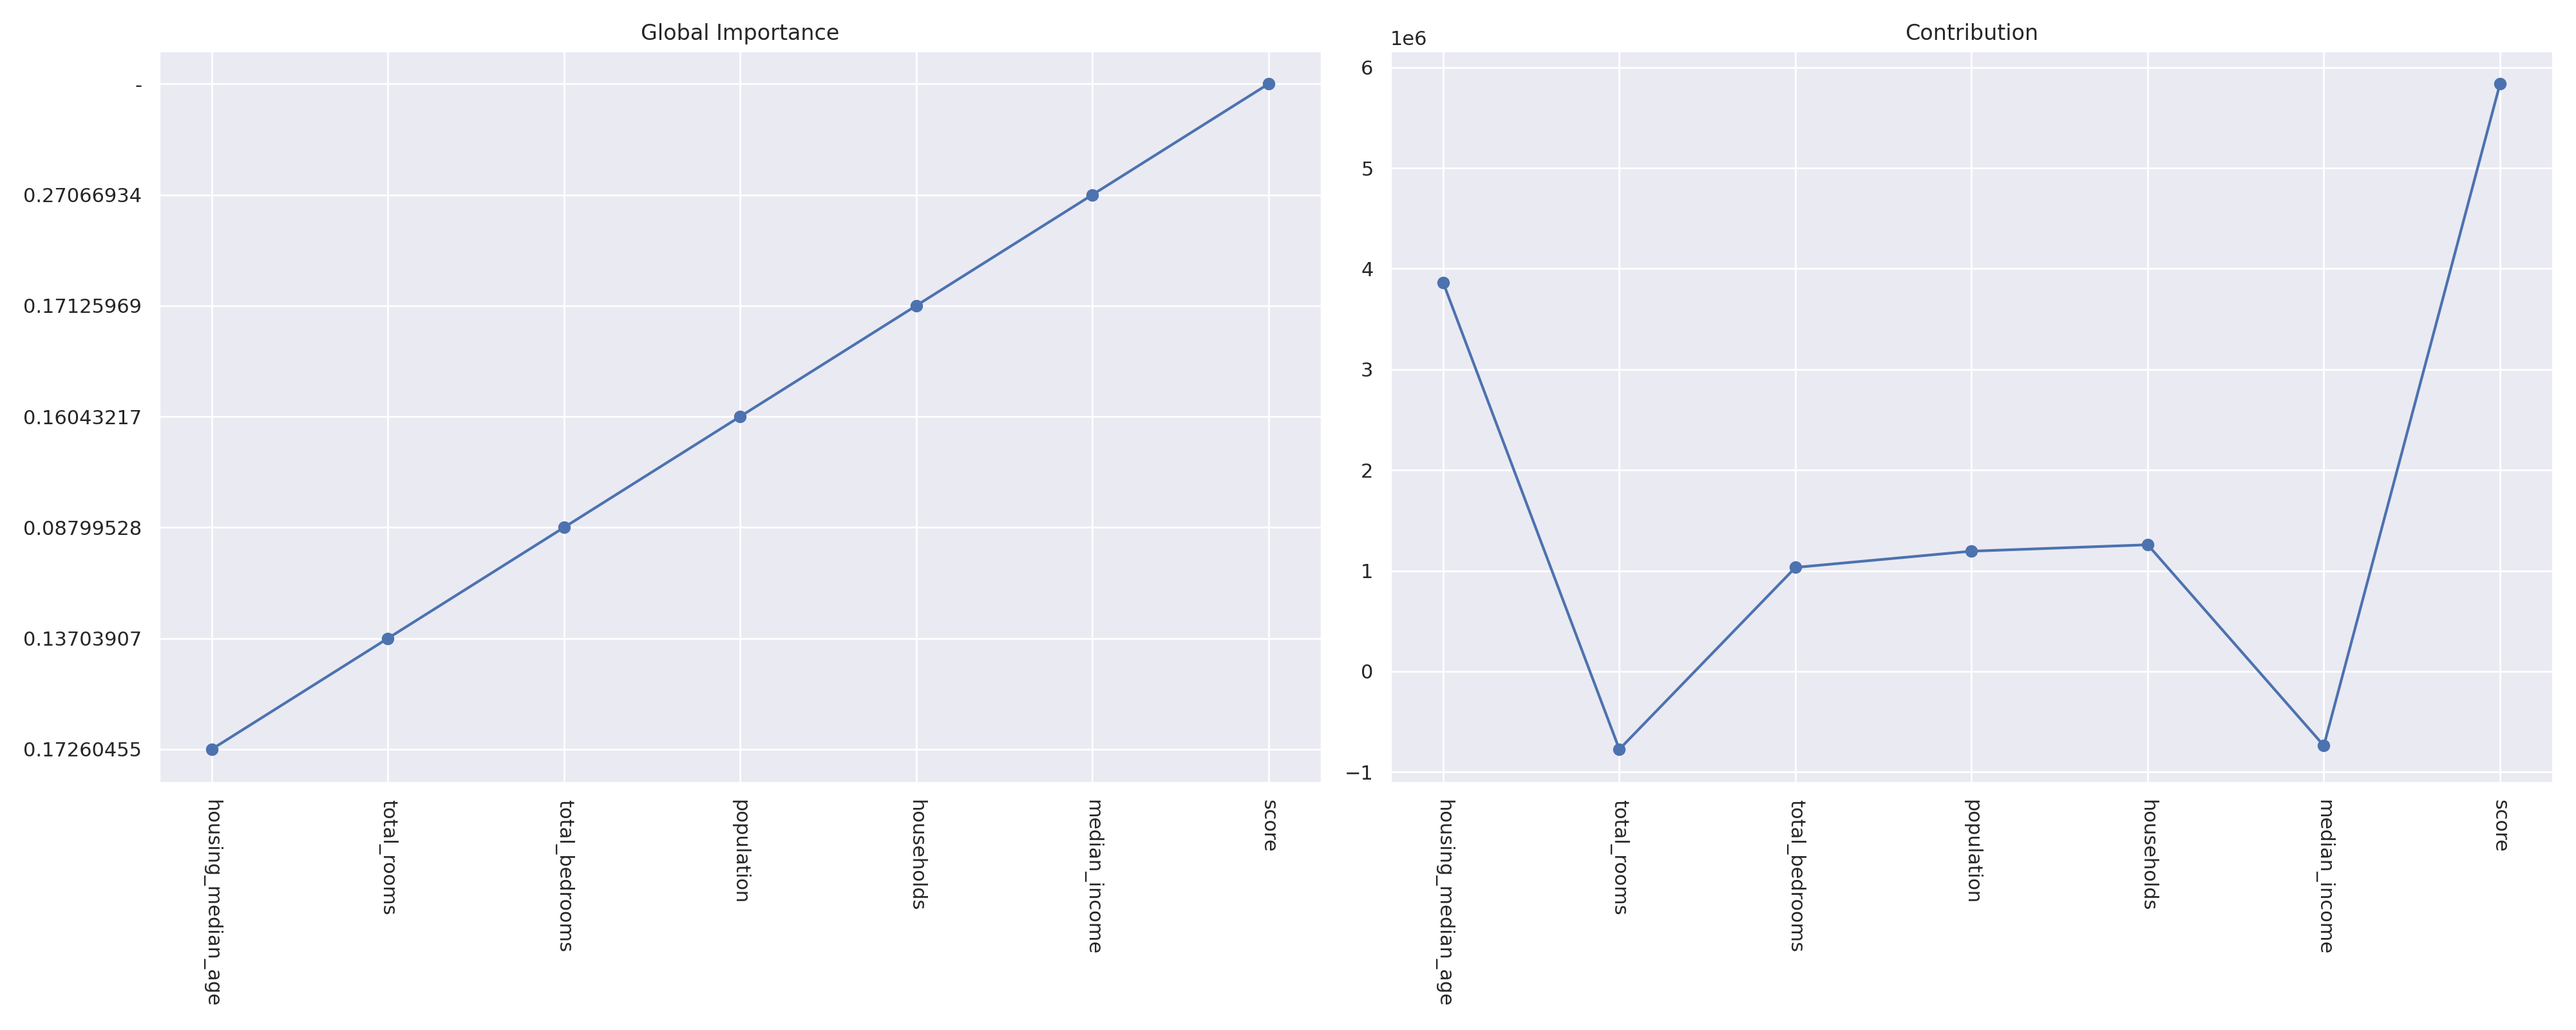
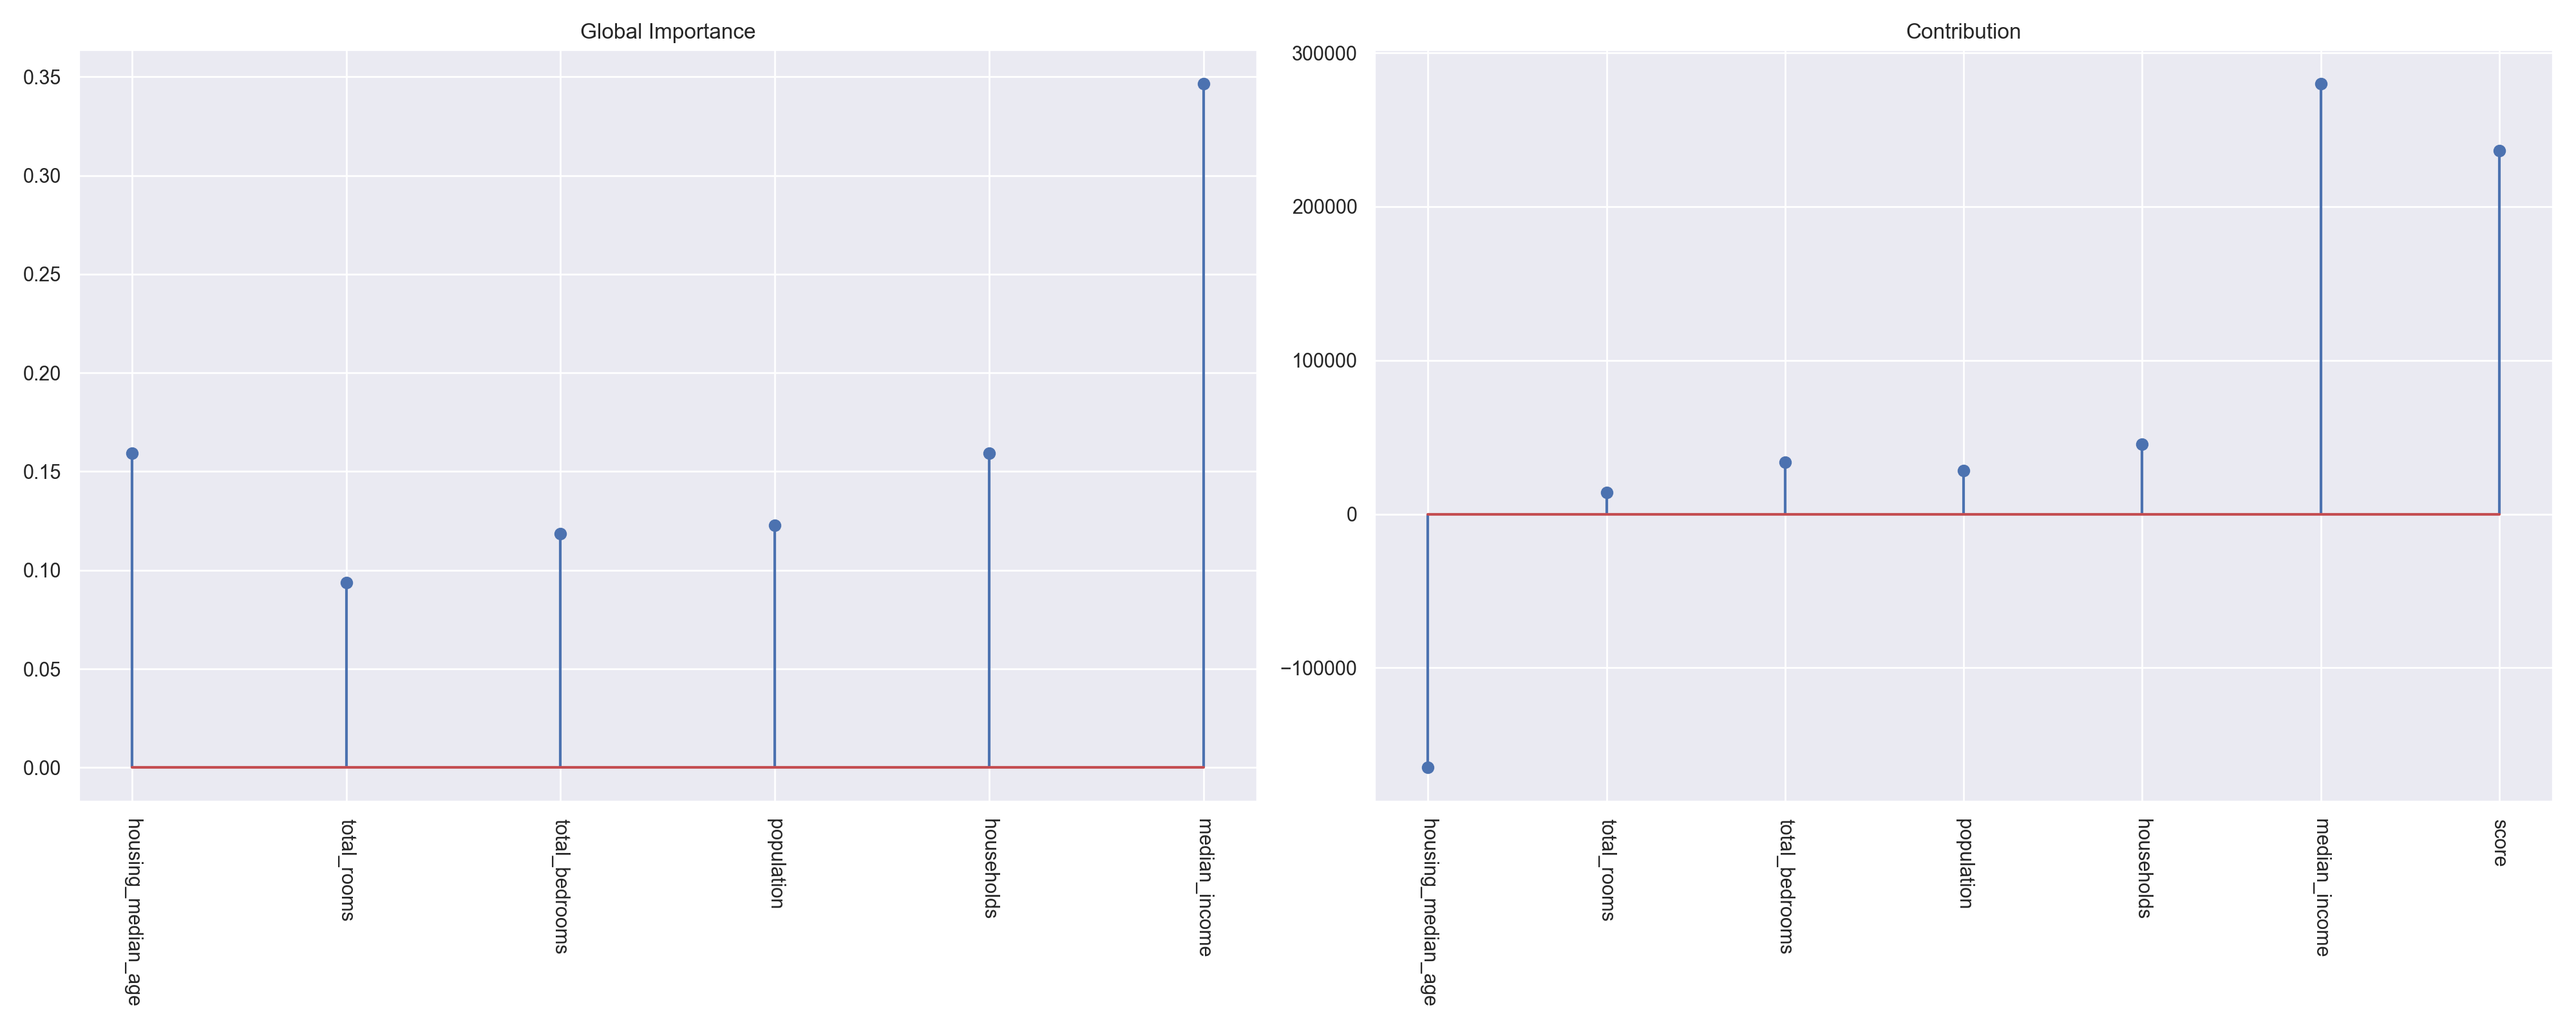
Changes: figures (plot->stem, dont plot score in global importance), example.py added (same as example in readme), linux and windows compatible code (tmp is now created first if it doesnt exist)

diff --git a/leurn/utils.py b/leurn/utils.py
@@ -206,19 +206,21 @@ def plot_explaination(Explanation: pd.DataFrame, output_path: str):
 
     sns.set()
     feat_name = Explanation["Feature Name"].values
-    importance = Explanation["Global_Importance"].values
+    importance = Explanation["Global_Importance"].values[:-1]
+    importance = np.array(importance)
+    importance = importance.astype(np.float)
     contribution = Explanation["Contribution"].values
 
     n_features = len(feat_name)
     plt.figure(figsize=(30 if n_features >= 20 else 20, 8), dpi=200)
 
     plt.subplot(1, 2, 1)
-    plt.plot(feat_name, importance, "-o")
+    plt.stem(feat_name[:-1], importance, "-o")
     plt.xticks(rotation=-90)
     plt.title("Global Importance")
 
     plt.subplot(1, 2, 2)
-    plt.plot(feat_name, contribution, "-o")
+    plt.stem(feat_name, contribution, "-o")
     plt.xticks(rotation=-90)
     plt.title("Contribution")
 

diff --git a/example.py b/example.py
@@ -1,0 +1,12 @@
+from leurn import LEURN, load_data, plot_explaination, read_partition_process_data, train_model
+import os
+if not os.path.exists('tmp'):
+   os.makedirs('tmp')
+data = load_data("housing")
+X_train, X_val, X_test, y_train, y_val, y_test, y_max, X_names, X_mean = read_partition_process_data(
+    data, target_name="median_house_value", task_type="reg"
+)
+model: LEURN = train_model(X_train, y_train, X_val, y_val, task_type="reg", output_path="tmp", epoch_no=100)
+test_sample=X_test[0:1,:]
+explain = model.explain(test_sample, feat_names=X_names, y_max=y_max)
+plot_explaination(explain, "tmp/explain.png")

diff --git a/README.md b/README.md
@@ -67,17 +67,20 @@ plot_explaination(explain, "/tmp/explain.png")
 
 ```python
 from leurn import LEURN, load_data, plot_explaination, read_partition_process_data, train_model
-
+import os
+if not os.path.exists('tmp'):
+   os.makedirs('tmp')
 data = load_data("housing")
 X_train, X_val, X_test, y_train, y_val, y_test, y_max, X_names, X_mean = read_partition_process_data(
     data, target_name="median_house_value", task_type="reg"
 )
-model: LEURN = train_model(X_train, y_train, X_val, y_val, task_type="reg", output_path="/tmp/housing", epoch_no=100)
-explain = model.explain(X_test, feat_names=X_names, y_max=y_max)
-plot_explaination(explain, "~/tmp/explain.png")
+model: LEURN = train_model(X_train, y_train, X_val, y_val, task_type="reg", output_path="tmp", epoch_no=100)
+test_sample=X_test[0:1,:]
+explain = model.explain(test_sample, feat_names=X_names, y_max=y_max)
+plot_explaination(explain, "tmp/explain.png")
 ```
 
-![Explaination](assets/explain.png)
+![Explanation](assets/explain.png)
 
 ## Contact
 
